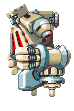
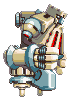
Collision and map bugs

diff --git a/Main/Main/RectangleHelper.cs b/Main/Main/RectangleHelper.cs
@@ -26,47 +26,16 @@ namespace Main
         {
             return (r1.Right <= r2.Right &&
                 r1.Right >= r2.Left - 3 &&
-                r1.Top <= r2.Bottom - (r2.Width / 10) &&
-                r1.Bottom >= r2.Top + (r2.Width / 10));
+                r1.Top <= r2.Bottom - (r2.Width / 9) &&
+                r1.Bottom >= r2.Top + (r2.Width / 9));
         }
 
         public static bool TouchRightOff(this Rectangle r1, Rectangle r2)
         {
             return (r1.Left >= r2.Left &&
                 r1.Left <= r2.Right + 3 &&
-                r1.Top <= r2.Bottom - (r2.Width / 10) &&
-                r1.Bottom >= r2.Top + (r2.Width / 10));
-        }
-        public static bool ProjectileTouchTopOf(this Rectangle r1, Rectangle r2)
-        {
-            return (r1.Bottom >= r2.Top - 1 &&
-                r1.Bottom <= r2.Top + (r2.Height / 2) &&
-                r1.Right >= r2.Left + r2.Width / 2 &&
-                r1.Left <= r2.Right - r2.Width / 2);
-        }
-
-        public static bool ProjectileTouchBottomOf(this Rectangle r1, Rectangle r2)
-        {
-            return (r1.Top <= r2.Bottom + (r2.Height / 2) &&
-                r1.Top >= r2.Bottom - 1 &&
-                r1.Right >= r2.Left + (r2.Width /2) &&
-                r1.Left <= r2.Right - (r2.Width / 2));
-        }
-
-        public static bool ProjectileTouchLeftOf(this Rectangle r1, Rectangle r2)
-        {
-            return (r1.Right <= r2.Right &&
-                r1.Right >= r2.Left - 3 &&
-                r1.Top <= r2.Bottom - (r2.Width / 2) &&
-                r1.Bottom >= r2.Top + (r2.Width / 2));
-        }
-
-        public static bool ProjectileTouchRightOf(this Rectangle r1, Rectangle r2)
-        {
-            return (r1.Left >= r2.Left &&
-                r1.Left <= r2.Right + 3 &&
-                r1.Top <= r2.Bottom - (r2.Width / 2) &&
-                r1.Bottom >= r2.Top + (r2.Width / 2));
+                r1.Top <= r2.Bottom - (r2.Width / 9) &&
+                r1.Bottom >= r2.Top + (r2.Width / 9));
         }
     }
 }

diff --git a/Main/Main/Units/Enemy.cs b/Main/Main/Units/Enemy.cs
@@ -24,11 +24,12 @@ namespace Main
         protected int rectangleSizeWidth;
         protected int rectangleSizeHeight;
 
-        public Enemy(int positonX, int positionY, int rectangleWidth = 50, int rectangleHeight = 50)
+        public Enemy(int positionX, int positionY) : this(positionX, positionY, 50, 50){}
+        public Enemy(int positionX, int positionY, int rectangleWidth , int rectangleHeight)
         {
-            this.position.X = positonX;
+            this.position.X = positionX;
             this.position.Y = positionY;
-            this.patrolPositon.X = positonX;
+            this.patrolPositon.X = positionX;
             this.patrolPositon.Y = positionY;
             this.patrolDistance = 50;
             this.velocity.X = 1f;
@@ -142,7 +143,7 @@ namespace Main
 
         public override void Draw(SpriteBatch spriteBatch)
         {
-            if (velocity.X < 0)
+            if (velocity.X > 0)
             {
                 spriteBatch.Draw(texture, rectangle, null, Color.White, 0f, new Vector2(0, 0), SpriteEffects.None, 0f);
             }

diff --git a/Main/Main/Projectile.cs b/Main/Main/Projectile.cs
@@ -65,27 +65,6 @@ namespace Main
             this.position += this.velocity;
             this.rectangle = new Rectangle((int)position.X, (int)position.Y, 30, 30);
         }
-        public bool Collided(Rectangle newRectangle)
-        {
-            
-            if (rectangle.ProjectileTouchTopOf(newRectangle))
-            {
-                return true;
-            }
-            if (rectangle.ProjectileTouchLeftOf(newRectangle))
-            {
-                return true;
-            }
-            if (rectangle.ProjectileTouchRightOf(newRectangle))
-            {
-                return true;
-            }
-            if (rectangle.ProjectileTouchBottomOf(newRectangle))
-            {
-                return true;
-            }
-            return false;
-        }
 
         public void ShootLeft()
         {

diff --git a/Main/Main/Units/Boss.cs b/Main/Main/Units/Boss.cs
@@ -5,11 +5,11 @@ using System.Text;
 
 namespace Main
 {
-    class Boss : Ranged, Interfaces.IDyable
+    class Boss : Enemy
     {
         private int health = 100;
 
-        public Boss(int positonX, int positionY, int rectangleWidth = 100, int rectangleHeight = 100)
+        public Boss(int positonX, int positionY, int rectangleWidth = 130, int rectangleHeight = 130)
             : base(positonX, positionY, rectangleWidth, rectangleHeight)
         {
             this.spriteName = "Boss";
@@ -19,7 +19,7 @@ namespace Main
             get
             {
                 return this.health;
-            }
+            } 
         }
     }
 }

diff --git a/Main/Main/Game1.cs b/Main/Main/Game1.cs
@@ -200,9 +200,9 @@ namespace Main
         {
             Enemy meleeEnemy1 = new Melee(500, 100);
             meleeEnemy1.Load(Content);
-            Enemy rangedEnemy1 = new Ranged(1000, 100);
+            Enemy rangedEnemy1 = new Ranged(1300, 100);
             rangedEnemy1.Load(Content);
-            Enemy boss = new Boss(900/*9500*/, 100, 100, 100);
+            Enemy boss = new Boss(900, 100);
             boss.Load(Content);
             enemies.Add(meleeEnemy1);
             enemies.Add(rangedEnemy1);

diff --git a/Main/Main/Units/Unit.cs b/Main/Main/Units/Unit.cs
@@ -37,6 +37,10 @@ namespace Main
             {
                 return this.rectangle;
             }
+            set
+            {
+                this.rectangle = value;
+            }
         }
 
         public abstract void Update(GameTime gameTime);

diff --git a/Main/Main/Units/Melee.cs b/Main/Main/Units/Melee.cs
@@ -16,6 +16,7 @@ namespace Main
     {
         public Melee(int positonX, int positionY) : base (positonX, positionY)
         {       
+            
             this.spriteName = "melee1";
         }
     }
